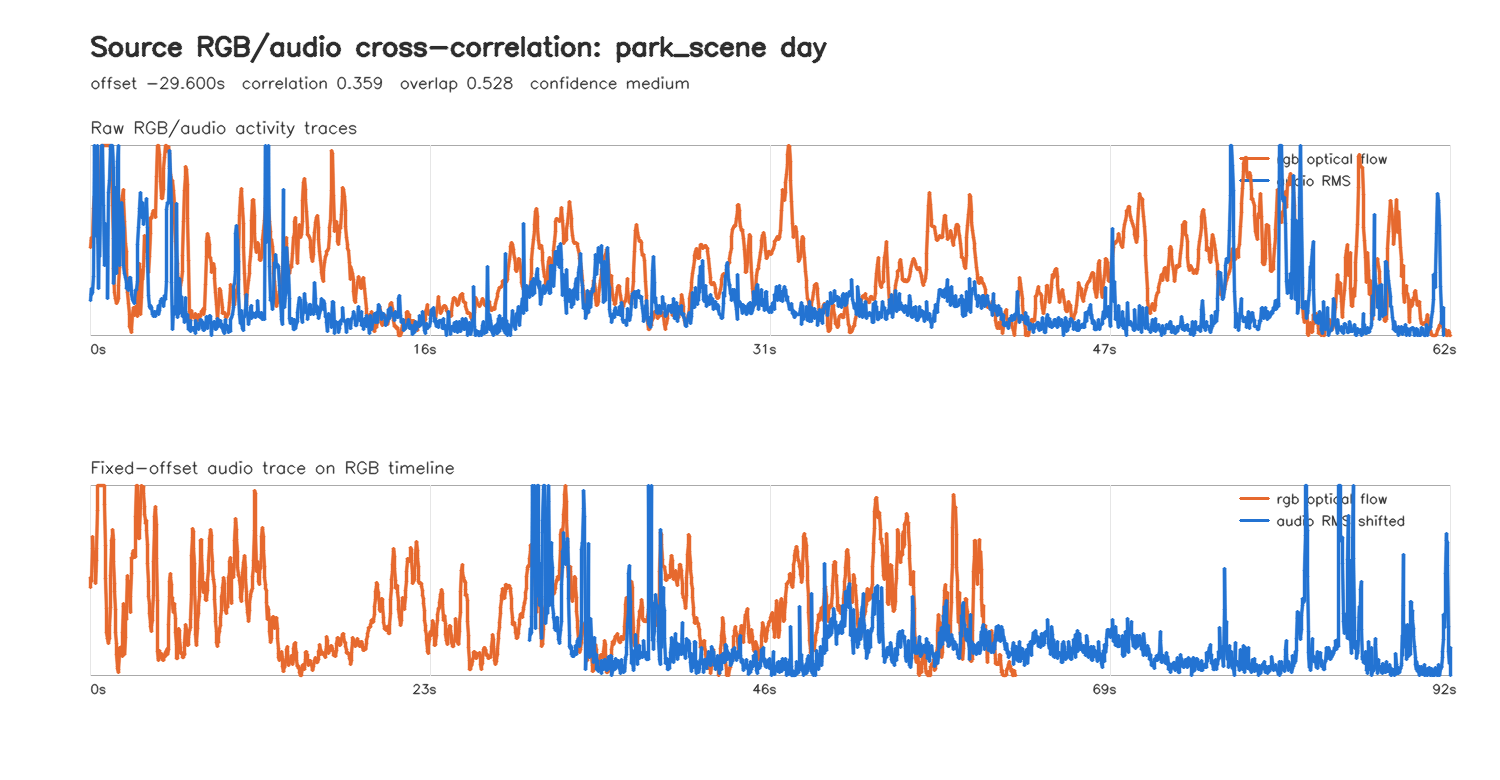
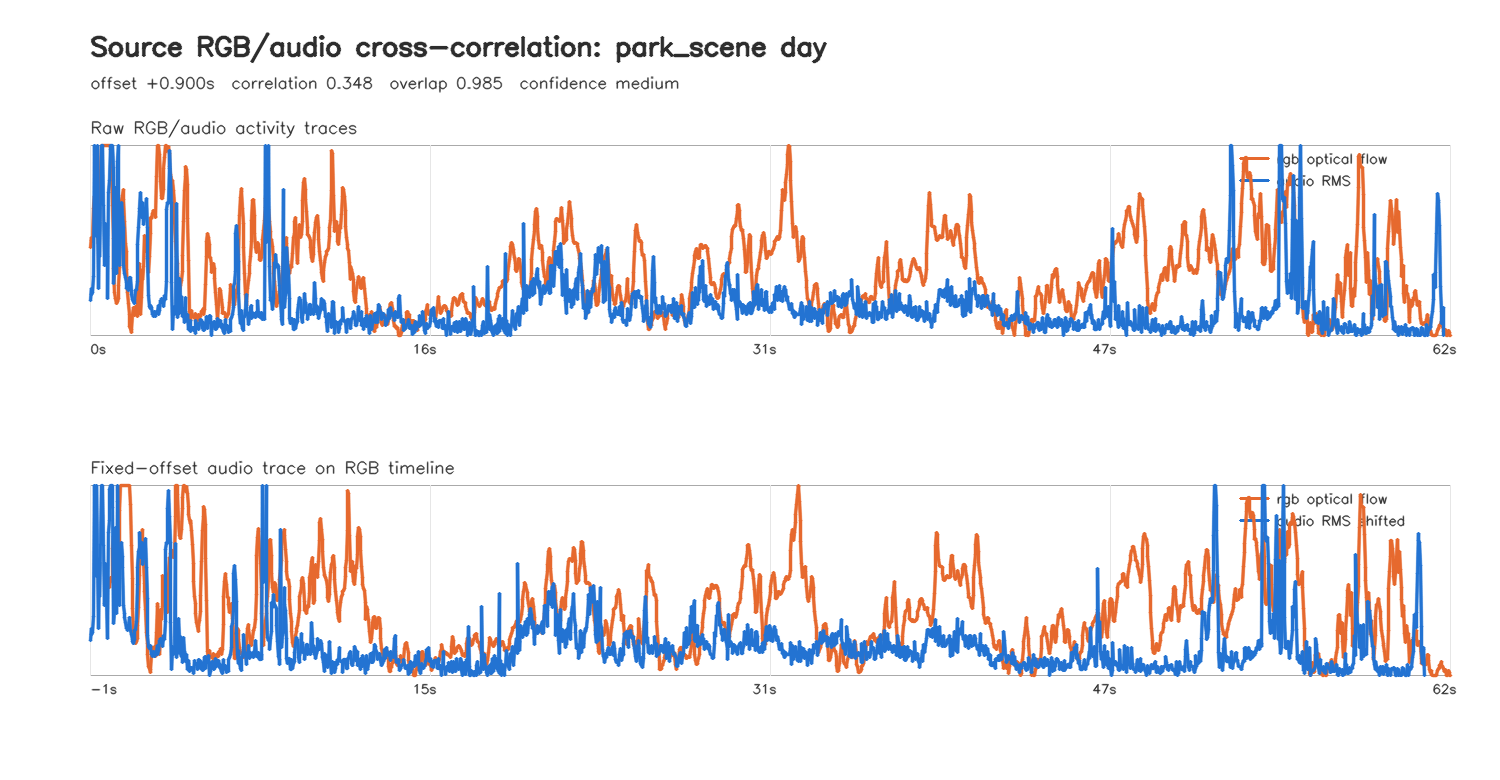
added demo audio alginment

Changed region(s): [[0.0613, 0.6154, 0.9813, 0.8923], [0.092, 0.0923, 0.46, 0.1231]]

diff --git a/annotation_feature/temporal_alignment.py b/annotation_feature/temporal_alignment.py
@@ -40,6 +40,7 @@ DTW_EXPORT_PREVIEW_FPS = 30
 DTW_EXPORT_SMOOTHING_SECONDS = 1.5
 AUDIO_ALIGNMENT_SAMPLE_RATE = 16000
 AUDIO_ALIGNMENT_MAX_LAG_SECONDS = 30.0
+SOURCE_RGB_AUDIO_ALIGNMENT_MAX_LAG_SECONDS = 2.0
 FEATURE_ALIGNMENT_SAMPLE_STRIDE_SECONDS = 4.0
 FEATURE_ALIGNMENT_OFFSET_STEP_SECONDS = 0.5
 FEATURE_ALIGNMENT_MAX_OFFSET_SECONDS = 20.0
@@ -3962,6 +3963,26 @@ def _write_source_rgb_audio_alignment_plot(
     return str(plot_path)
 
 
+def _source_rgb_audio_alignment_summary(alignment: dict[str, Any]) -> dict[str, Any]:
+    summary = {
+        "offset_seconds": round(float(alignment["offset_seconds"]), 6),
+        "offset_frames": alignment.get("offset_frames"),
+        "peak_correlation": round(float(alignment.get("peak_correlation") or 0.0), 6),
+        "confidence_label": alignment.get("confidence_label"),
+        "overlap_ratio": (
+            round(float(alignment.get("overlap_ratio")), 6)
+            if alignment.get("overlap_ratio") is not None
+            else None
+        ),
+        "candidate_offsets": alignment.get("candidate_offsets", []),
+    }
+    if alignment.get("confidence_label") == "low":
+        summary["warnings"] = [
+            "Low-confidence RGB/audio cross-correlation; selected offset is constrained by the conservative source-audio search window."
+        ]
+    return summary
+
+
 def run_and_export_source_rgb_with_audio_segments_for_aligned_dataset(
     source_dataset_folder: Path | str = "dataset",
     aligned_dataset_folder: Path | str = "aligned_dataset",
@@ -3969,10 +3990,11 @@ def run_and_export_source_rgb_with_audio_segments_for_aligned_dataset(
     plot_output_folder: Path | str | None = DEFAULT_PLOT_OUTPUT_FOLDER / "aligned_rgb_audio",
     segment_seconds: float = 30.0,
     resize_width: int = 160,
-    max_lag_seconds: float = AUDIO_ALIGNMENT_MAX_LAG_SECONDS,
+    max_lag_seconds: float = SOURCE_RGB_AUDIO_ALIGNMENT_MAX_LAG_SECONDS,
     overwrite: bool = False,
     max_pair_groups: int | None = 1,
     start_pair_group_index: int = 0,
+    verbose: bool = False,
 ) -> dict[str, Any]:
     """Create aligned_dataset 30s *_rgb_with_audio.mp4 segments from source dataset RGB/.m4a files."""
     source_dataset_folder = Path(source_dataset_folder)
@@ -4000,6 +4022,7 @@ def run_and_export_source_rgb_with_audio_segments_for_aligned_dataset(
             dropped_remainder = float(reference_duration - full_segment_count * segment_seconds)
             if full_segment_count <= 0:
                 raise ValueError("Source RGB video has no full 30-second segments.")
+            alignment_summary = _source_rgb_audio_alignment_summary(alignment_bundle["alignment"])
 
             plot_file = None
             if plot_output_folder is not None:
@@ -4014,8 +4037,12 @@ def run_and_export_source_rgb_with_audio_segments_for_aligned_dataset(
                         pair,
                         alignment_bundle,
                     )
+                    if verbose:
+                        print(f"Plot written: {plot_file}")
                 else:
                     plot_file = str(plot_path)
+                    if verbose:
+                        print(f"Plot exists: {plot_file}")
 
             for segment_index in range(full_segment_count):
                 segment_name = f"Seg{segment_index + 1}"
@@ -4031,6 +4058,11 @@ def run_and_export_source_rgb_with_audio_segments_for_aligned_dataset(
                 )
 
                 if output_file.exists() and not overwrite:
+                    if verbose:
+                        print(
+                            "Reusing existing RGB-with-audio segment: "
+                            f"{pair['split_folder_name']} {pair['sample_name']} {pair['side']} {segment_name} -> {output_file}"
+                        )
                     exported.append(
                         {
                             **pair,
@@ -4041,20 +4073,7 @@ def run_and_export_source_rgb_with_audio_segments_for_aligned_dataset(
                             "plot_file": plot_file,
                             "status": "reused",
                             "reason": "Output already exists.",
-                            "alignment": {
-                                "offset_seconds": round(float(alignment_bundle["alignment"]["offset_seconds"]), 6),
-                                "offset_frames": alignment_bundle["alignment"].get("offset_frames"),
-                                "peak_correlation": round(
-                                    float(alignment_bundle["alignment"].get("peak_correlation") or 0.0),
-                                    6,
-                                ),
-                                "confidence_label": alignment_bundle["alignment"].get("confidence_label"),
-                                "overlap_ratio": (
-                                    round(float(alignment_bundle["alignment"].get("overlap_ratio")), 6)
-                                    if alignment_bundle["alignment"].get("overlap_ratio") is not None
-                                    else None
-                                ),
-                            },
+                            "alignment": alignment_summary,
                         }
                     )
                     continue
@@ -4067,6 +4086,11 @@ def run_and_export_source_rgb_with_audio_segments_for_aligned_dataset(
                     duration_seconds=segment_seconds,
                     audio_offset_seconds=float(alignment_bundle["alignment"]["offset_seconds"]),
                 )
+                if verbose:
+                    print(
+                        "Exported RGB-with-audio segment: "
+                        f"{pair['split_folder_name']} {pair['sample_name']} {pair['side']} {segment_name} -> {output_file}"
+                    )
                 exported.append(
                     {
                         **pair,
@@ -4076,25 +4100,18 @@ def run_and_export_source_rgb_with_audio_segments_for_aligned_dataset(
                         "output_file": str(output_file),
                         "plot_file": plot_file,
                         "status": "exported",
-                        "alignment": {
-                            "offset_seconds": round(float(alignment_bundle["alignment"]["offset_seconds"]), 6),
-                            "offset_frames": alignment_bundle["alignment"].get("offset_frames"),
-                            "peak_correlation": round(
-                                float(alignment_bundle["alignment"].get("peak_correlation") or 0.0),
-                                6,
-                            ),
-                            "confidence_label": alignment_bundle["alignment"].get("confidence_label"),
-                            "overlap_ratio": (
-                                round(float(alignment_bundle["alignment"].get("overlap_ratio")), 6)
-                                if alignment_bundle["alignment"].get("overlap_ratio") is not None
-                                else None
-                            ),
-                        },
+                        "alignment": alignment_summary,
                         "mux": mux,
                     }
                 )
 
             if dropped_remainder > 0:
+                if verbose:
+                    print(
+                        "Dropped trailing remainder: "
+                        f"{pair['split_folder_name']} {pair['sample_name']} {pair['side']} "
+                        f"{dropped_remainder:.3f}s"
+                    )
                 skipped.append(
                     {
                         **pair,
@@ -4110,12 +4127,14 @@ def run_and_export_source_rgb_with_audio_segments_for_aligned_dataset(
         "aligned_dataset_folder": str(aligned_dataset_folder),
         "method": "source_rgb_audio_cross_correlation_fixed_offset_30s_segments",
         "segment_seconds": segment_seconds,
+        "max_lag_seconds": max_lag_seconds,
         "output_naming": "*_rgb_with_audio.mp4",
         "plot_output_folder": str(plot_output_folder) if plot_output_folder else None,
         "total_discovered_count": len(all_discovered),
         "start_pair_group_index": start_pair_group_index,
         "max_pair_groups": max_pair_groups,
         "selected_pair_groups": selected_pair_groups,
+        "overwrite": overwrite,
         "discovered_count": len(discovered),
         "exported_count": len(exported),
         "skipped_count": len(skipped),

diff --git a/main.py b/main.py
@@ -1146,19 +1146,20 @@ def main():
             print("Computes full-source RGB/audio cross-correlation before cutting 30s segments.")
             print("Writes *_rgb_with_audio.mp4 files into matching aligned_dataset/<split>/SegN/ folders.")
             print("Writes one full-source RGB/audio activity plot per source side.")
+            print("Existing *_rgb_with_audio.mp4 files will be replaced.")
             summary = run_and_export_source_rgb_with_audio_segments_for_aligned_dataset(
                 source_dataset_folder="dataset",
                 aligned_dataset_folder="aligned_dataset",
                 summary_output_path="aligned_dataset/source_rgb_with_audio_export_summary.json",
-                overwrite=False,
+                overwrite=True,
                 max_pair_groups=None,
+                verbose=True,
             )
             exported = summary.get("exported_count", 0)
             skipped = summary.get("skipped_count", 0)
-            reused = sum(1 for item in summary.get("exported", []) if item.get("status") == "reused")
             print(
                 f"Source-aligned RGB-with-audio export complete: "
-                f"{exported} exported/reused ({reused} reused), {skipped} skipped."
+                f"{exported} exported/replaced, {skipped} skipped."
             )
             print(f"Summary: {summary.get('summary_file')}")
 
